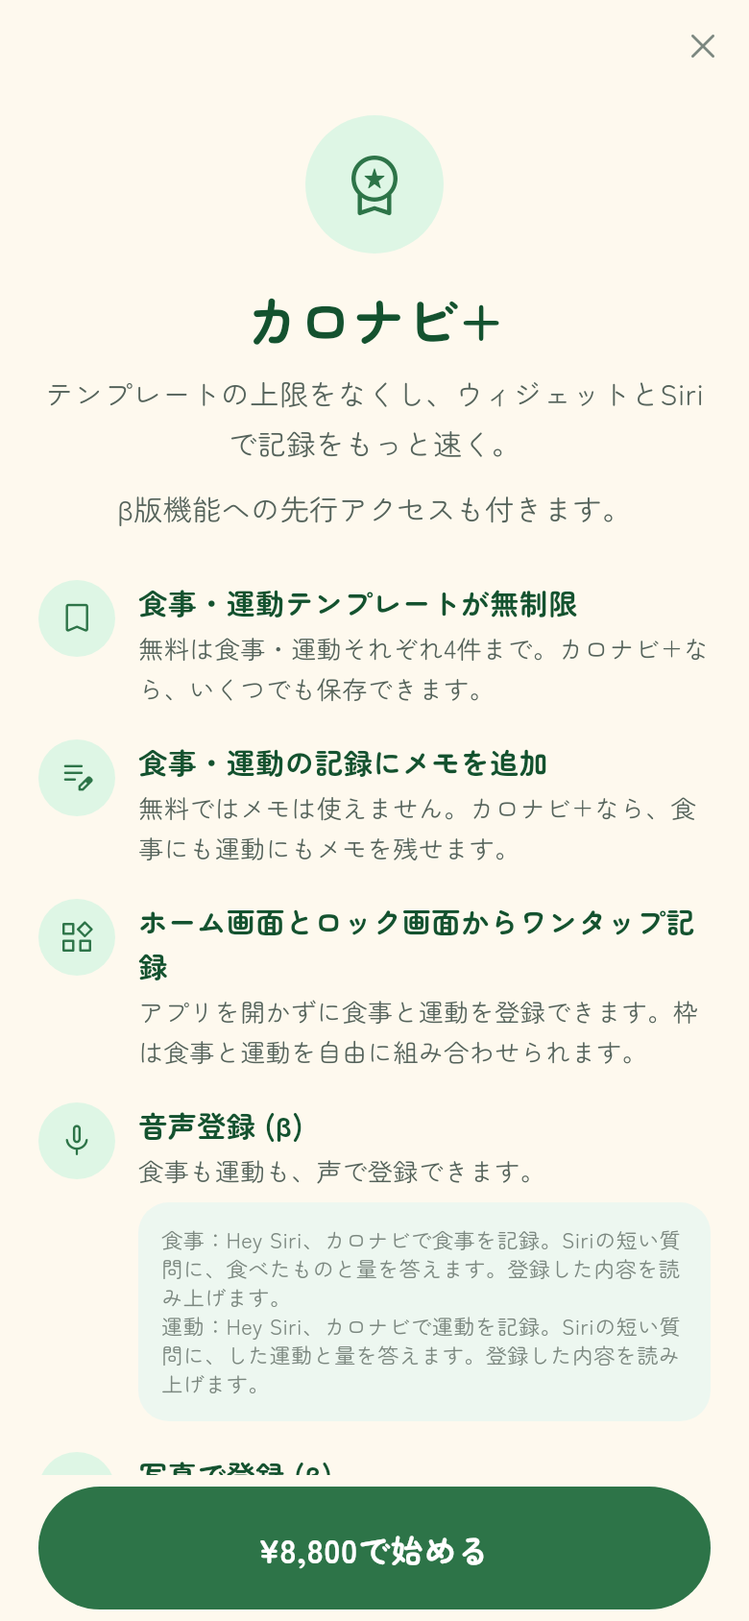
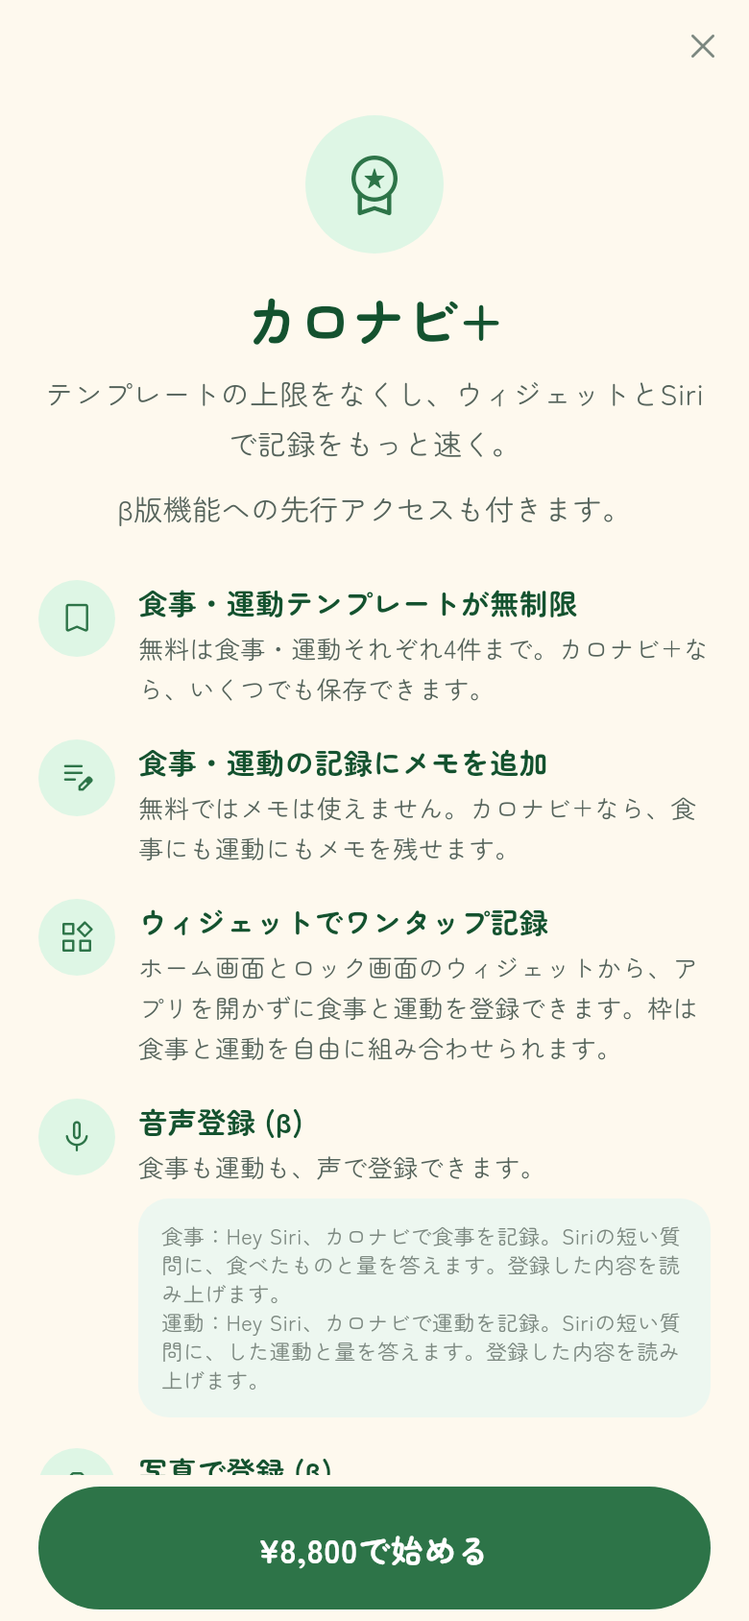
カロナビ+の機能説明にウィジェットとAIの2機能をそろえる
ウィジェットはタイトルにその語を入れ、ホーム画面とロック画面から登録すると書く。写真で登録とAIで探すはβのまま同じ文字サイズで、推定だと分かる文にする。

diff --git a/lib/screens/settings/how_to_use_screen.dart b/lib/screens/settings/how_to_use_screen.dart
@@ -50,13 +50,13 @@ class HowToUseScreen extends StatelessWidget {
                 const _Section(
                   title: 'ウィジェットと、音声登録 (β)',
                   body:
-                      'ホームの大きなウィジェットは、残りカロリーに加え、アプリを開かずに食事と運動を登録します。枠は食事と運動を自由に組み合わせられます。ロック画面の3枠は、ホームの1〜3枠目を種類も含めてそのまま使います。枠の中身は、保存した食事・運動テンプレートを選んで食品や種目ごとに量を変えて入れるか、その場で作ります。枠に入れても元のテンプレートは変わらず、テンプレートの件数にも入りません。アプリの中で保存しただけでは、ホーム画面やロック画面に自動では付きません。ホーム画面は、いちばん左のページを長押しし、左上「編集」から「ウィジェットを追加」でカロナビを選びます。ロック画面は、長押しして「カスタマイズ」→「ロック画面」と進み、時刻の上下の枠をタップしてカロナビを選び、「完了」を押します。音声のショートカットは、自分で追加しません。使う前に、設定アプリの「Siriと検索」（または「Apple IntelligenceとSiri」）でSiriをオンにし、カロナビにログインしておきます。「Hey Siri、カロナビに登録」または「Hey Siri、カロナビ登録」と話し、Siriの短い質問に答えます。食事は「Hey Siri、カロナビで食事を記録」、運動は「Hey Siri、カロナビで運動を記録」です。質問には「ささみ100g」のように量まで答えられます。一覧にある食品は「Hey Siri、カロナビで食事にささみ」、運動は「Hey Siri、カロナビで運動にウォーキング」です。この言い方では量は続く質問に答えます。一覧に無いものは「カロナビで食事を記録」から話します。登録した内容を読み上げます。直前の1件は「Hey Siri、カロナビで今登録したやつ消して」で消せます。候補が分かれるときだけ、登録の前に確認します。牛ももの焼き200gのように詳しく答えると、その場で登録できます。牛肉のように種類が分かれると、部位を聞くことがあります。食事か運動か決まらないときは、どちらに登録するかを確認します。食品成分表と、ブロックしていない人の公開食品もSiriから登録できます。保存した食品とテンプレート名は、アプリを開いたあと「カロナビで食事に」のあとに言えます。',
+                      'ウィジェットでワンタップ記録は、ホーム画面とロック画面のウィジェットです。ホーム画面の大きなウィジェットは、残りカロリーに加え、アプリを開かずに食事と運動を登録します。枠は食事と運動を自由に組み合わせられます。ロック画面の3枠は、ホームの1〜3枠目を種類も含めてそのまま使います。枠の中身は、保存した食事・運動テンプレートを選んで食品や種目ごとに量を変えて入れるか、その場で作ります。枠に入れても元のテンプレートは変わらず、テンプレートの件数にも入りません。アプリの中で保存しただけでは、ホーム画面やロック画面に自動では付きません。ホーム画面は、いちばん左のページを長押しし、左上「編集」から「ウィジェットを追加」でカロナビを選びます。ロック画面は、長押しして「カスタマイズ」→「ロック画面」と進み、時刻の上下の枠をタップしてカロナビを選び、「完了」を押します。音声のショートカットは、自分で追加しません。使う前に、設定アプリの「Siriと検索」（または「Apple IntelligenceとSiri」）でSiriをオンにし、カロナビにログインしておきます。「Hey Siri、カロナビに登録」または「Hey Siri、カロナビ登録」と話し、Siriの短い質問に答えます。食事は「Hey Siri、カロナビで食事を記録」、運動は「Hey Siri、カロナビで運動を記録」です。質問には「ささみ100g」のように量まで答えられます。一覧にある食品は「Hey Siri、カロナビで食事にささみ」、運動は「Hey Siri、カロナビで運動にウォーキング」です。この言い方では量は続く質問に答えます。一覧に無いものは「カロナビで食事を記録」から話します。登録した内容を読み上げます。直前の1件は「Hey Siri、カロナビで今登録したやつ消して」で消せます。候補が分かれるときだけ、登録の前に確認します。牛ももの焼き200gのように詳しく答えると、その場で登録できます。牛肉のように種類が分かれると、部位を聞くことがあります。食事か運動か決まらないときは、どちらに登録するかを確認します。食品成分表と、ブロックしていない人の公開食品もSiriから登録できます。保存した食品とテンプレート名は、アプリを開いたあと「カロナビで食事に」のあとに言えます。',
                 ),
                 const SizedBox(height: AppSpacing.md),
                 const _Section(
                   title: '無料とカロナビ+',
                   body:
-                      '無料でも、食事・運動・体重の記録、記録の共有、食事テンプレート4件、運動テンプレート4件が使えます。カロナビ+では食事と運動のテンプレートの件数制限がなくなり、食事のメモ、直近3日の食品、ウィジェット、音声登録 (β)、パーソナルコーチ (β)、写真で登録 (β) が使えます。ウィジェットとSiriで、記録を速くできます。あわせて、β版機能への先行アクセスが付きます。ウィジェットの置き方と音声の始め方は、上の節と各画面に書いてあります。',
+                      '無料でも、食事・運動・体重の記録、記録の共有、食事テンプレート4件、運動テンプレート4件が使えます。カロナビ+では食事と運動のテンプレートの件数制限がなくなり、食事のメモ、直近3日の食品、ウィジェットでワンタップ記録、音声登録 (β)、パーソナルコーチ (β)、写真で登録 (β)、AIで探す (β) が使えます。ウィジェットとSiriで、記録を速くできます。あわせて、β版機能への先行アクセスが付きます。ウィジェットの置き方と音声の始め方は、上の節と各画面に書いてあります。',
                 ),
                 const SizedBox(height: AppSpacing.md),
                 const _Section(
@@ -102,7 +102,7 @@ class HowToUseScreen extends StatelessWidget {
                 const _Section(
                   title: '食品の探し方',
                   body:
-                      '食事の追加では、手入力、バーコード、食品を探す、テンプレート、写真で登録から記録できます。保存済み食品や定番の食品、公開食品は「食品を探す」から選べます。公開食品は、ほかの人が公開した食品で、氏名やメールは載りません。公開した食品は、アカウントを削除しても残ります。写真で登録 (β) はカロナビ+です。写真を撮るか、カメラロールから選びます。料理名は任意です。入れると精度が上がります。量も任意で、グラム・個数・杯数など、できるだけ正確に入れると精度が上がります。補足も任意で、油の量や脂身、ソースなど写真で分かりにくい特徴を書けます。カロリーとPFCはAIの推定です。登録の前に確認して、数値を直せます。料理名を入れなかったときは、登録のときに名前を確認します。写真はカロナビに保存しません。',
+                      '食事の追加では、手入力、バーコード、食品を探す、テンプレート、写真で登録から記録できます。保存済み食品や定番の食品、公開食品は「食品を探す」から選べます。公開食品は、ほかの人が公開した食品で、氏名やメールは載りません。公開した食品は、アカウントを削除しても残ります。写真で登録 (β) はカロナビ+です。写真を撮るか、カメラロールから選びます。料理名は任意です。入れると精度が上がります。量も任意で、グラム・個数・杯数など、できるだけ正確に入れると精度が上がります。補足も任意で、油の量や脂身、ソースなど写真で分かりにくい特徴を書けます。カロリーとPFCはAIの推定です。登録の前に確認して、数値を直せます。料理名を入れなかったときは、登録のときに名前を確認します。写真はカロナビに保存しません。AIで探す (β) もカロナビ+です。検索で見つからない食品は、チェーン店のメニューなども含めて、AIがカロリーとPFCの推定を出します。推定だと表示します。',
                 ),
                 const SizedBox(height: AppSpacing.md),
                 const _Section(

diff --git a/lib/constants/app_strings.dart b/lib/constants/app_strings.dart
@@ -81,7 +81,7 @@ class AppStrings {
   static const plusBetaAccessLead = 'β版機能への先行アクセスも付きます。';
   static const plusBetaAccessTitle = 'β版機能への先行アクセス';
   static const plusBetaAccessBody =
-      'パーソナルコーチ (β)、音声登録 (β)、写真で登録 (β) など、β版として先行公開している機能を使えます。';
+      'パーソナルコーチ (β)、音声登録 (β)、写真で登録 (β)、AIで探す (β) など、β版として先行公開している機能を使えます。';
   static const coachBetaNotice =
       '残りカロリーを時間帯に合わせて今日これからの食事と間食に分け、食事ごとに主食・主菜・副菜の組み合わせと量を提案します。食べすぎた日は運動を提案します。';
   static const coachFeatureBody =
@@ -91,14 +91,17 @@ class AppStrings {
       '無料は食事・運動それぞれ4件まで。カロナビ+なら、いくつでも保存できます。';
   static const plusBenefitNoteTitle = '食事・運動の記録にメモを追加';
   static const plusBenefitNoteBody = '無料ではメモは使えません。カロナビ+なら、食事にも運動にもメモを残せます。';
-  static const plusBenefitWidgetTitle = 'ホーム画面とロック画面からワンタップ記録';
+  static const plusBenefitWidgetTitle = 'ウィジェットでワンタップ記録';
   static const plusBenefitWidgetBody =
-      'アプリを開かずに食事と運動を登録できます。枠は食事と運動を自由に組み合わせられます。';
+      'ホーム画面とロック画面のウィジェットから、アプリを開かずに食事と運動を登録できます。枠は食事と運動を自由に組み合わせられます。';
   static const plusBenefitSiriTitle = '音声登録 (β)';
   static const plusBenefitSiriBody = '食事も運動も、声で登録できます。';
   static const plusBenefitPhotoTitle = '写真で登録 (β)';
   static const plusBenefitPhotoBody =
-      '食事の写真から、カロリーとPFCの推定を出します。登録の前に確認して、数値を直せます。';
+      '食事の写真から、AIがカロリーとPFCの推定を出します。料理名、量、補足は任意で、入れると精度が上がります。登録の前に確認して、数値を直せます。';
+  static const plusBenefitAiSearchTitle = 'AIで探す (β)';
+  static const plusBenefitAiSearchBody =
+      '検索で見つからない食品も、チェーン店のメニューなどから、AIがカロリーとPFCの推定を出します。推定だと表示します。';
   static const plusCtaPrefix = 'で始める';
   static const plusBadgeBestValue = '一番お得';
   static const plusBadgeSave = 'お得';

diff --git a/test/plus_price_screenshot_test.dart b/test/plus_price_screenshot_test.dart
@@ -86,6 +86,18 @@ void main() {
     );
     expect(find.text('¥8,800で始める'), findsOneWidget);
 
+    await _captureFull(
+      tester,
+      UnavailableSubscriptionRepository(),
+      File('${directory.path}/paywall_full.png'),
+    );
+    expect(find.text('ウィジェットでワンタップ記録'), findsOneWidget);
+    expect(find.text('写真で登録 (β)'), findsOneWidget);
+    expect(find.text('AIで探す (β)'), findsOneWidget);
+    expect(find.text('ホーム画面とロック画面のウィジェットから、アプリを開かずに食事と運動を登録できます。枠は食事と運動を自由に組み合わせられます。'), findsOneWidget);
+    expect(find.textContaining('精度検証中'), findsNothing);
+    expect(find.text('プランを選ぶ'), findsOneWidget);
+
     await tester.binding.setSurfaceSize(const Size(390, 844));
     final key = GlobalKey();
     await tester.pumpWidget(
@@ -113,14 +125,44 @@ void main() {
   });
 }
 
+Future<void> _captureFull(
+  WidgetTester tester,
+  UnavailableSubscriptionRepository repository,
+  File file,
+) async {
+  final key = GlobalKey();
+  await tester.binding.setSurfaceSize(const Size(390, 844));
+  await tester.pumpWidget(
+    MaterialApp(
+      debugShowCheckedModeBanner: false,
+      theme: AppTheme.light,
+      home: RepaintBoundary(
+        key: key,
+        child: CalonaviPlusEntryScreen(repository: repository),
+      ),
+    ),
+  );
+  await tester.pumpAndSettle();
+  final position = tester.state<ScrollableState>(find.byType(Scrollable).first).position;
+  final height = 844 + position.maxScrollExtent;
+  await tester.binding.setSurfaceSize(Size(390, height));
+  await tester.pumpAndSettle();
+  final bytes = await tester.runAsync(
+    () => pngBytesFromBoundary(key, pixelRatio: 2),
+  );
+  expect(bytes, isNotNull);
+  file.writeAsBytesSync(bytes!);
+}
+
 Future<void> _capture(
   WidgetTester tester,
   UnavailableSubscriptionRepository repository,
   File file, {
   required bool scrollToPlans,
+  Size surface = const Size(390, 844),
 }) async {
   final key = GlobalKey();
-  await tester.binding.setSurfaceSize(const Size(390, 844));
+  await tester.binding.setSurfaceSize(surface);
   await tester.pumpWidget(
     MaterialApp(
       debugShowCheckedModeBanner: false,

diff --git a/test/calonavi_plus_terms_test.dart b/test/calonavi_plus_terms_test.dart
@@ -5,6 +5,7 @@ import 'package:ayg/screens/subscription/calonavi_plus_flow.dart';
 import 'package:ayg/services/subscription_entitlement.dart';
 import 'package:ayg/services/subscription_offer.dart';
 import 'package:ayg/theme/app_theme.dart';
+import 'package:ayg/theme/app_typography.dart';
 import 'package:ayg/widgets/design/design_button.dart';
 import 'package:flutter/material.dart';
 import 'package:flutter_test/flutter_test.dart';
@@ -56,7 +57,23 @@ void main() {
     expect(AppStrings.plusAutoRenew, contains('24時間以内'));
     expect(AppStrings.plusCancelHow, contains('App Store'));
     expect(AppStrings.plusBenefitSiriTitle, '音声登録 (β)');
+    expect(AppStrings.plusBenefitWidgetTitle, 'ウィジェットでワンタップ記録');
+    expect(AppStrings.plusBenefitWidgetBody, contains('ホーム画面とロック画面のウィジェット'));
+    expect(AppStrings.plusBenefitPhotoTitle, '写真で登録 (β)');
+    expect(AppStrings.plusBenefitAiSearchTitle, 'AIで探す (β)');
+    expect(AppStrings.plusBenefitAiSearchBody, contains('チェーン店'));
+    expect(AppStrings.plusBenefitAiSearchBody, contains('推定だと表示します'));
     expect(AppStrings.plusBetaAccessBody, contains('音声登録 (β)'));
+    expect(AppStrings.plusBetaAccessBody, contains('AIで探す (β)'));
+    expect(find.textContaining('精度検証中'), findsNothing);
+    final photoTitle = tester.widget<Text>(
+      find.text(AppStrings.plusBenefitPhotoTitle),
+    );
+    final aiTitle = tester.widget<Text>(
+      find.text(AppStrings.plusBenefitAiSearchTitle),
+    );
+    expect(photoTitle.style?.fontSize, AppTypography.titleS.fontSize);
+    expect(aiTitle.style?.fontSize, AppTypography.titleS.fontSize);
     expect(find.textContaining('現在の有効期限'), findsNothing);
     expect(find.textContaining('380'), findsNothing);
   });

diff --git a/lib/screens/settings/lock_screen_meal_screen.dart b/lib/screens/settings/lock_screen_meal_screen.dart
@@ -361,7 +361,7 @@ class _LockScreenMealScreenState extends State<LockScreenMealScreen> {
                 const DesignTitleBlock(
                   title: 'ウィジェット',
                   subtitle:
-                      'ホーム画面の大きなウィジェットは、残りカロリーに加え、アプリを開かずに食事と運動を登録します。枠は食事と運動を自由に組み合わせられます。ロック画面の3枠は、ホームの1〜3枠目を種類も含めてそのまま使います。枠の中身は、保存した食事・運動テンプレートを選んで食品や種目ごとに量を変えて入れるか、その場で作ります。枠に入れても元のテンプレートは変わらず、テンプレートの件数にも入りません。',
+                      'ウィジェットでワンタップ記録です。ホーム画面の大きなウィジェットは、残りカロリーに加え、アプリを開かずに食事と運動を登録します。枠は食事と運動を自由に組み合わせられます。ロック画面の3枠は、ホームの1〜3枠目を種類も含めてそのまま使います。枠の中身は、保存した食事・運動テンプレートを選んで食品や種目ごとに量を変えて入れるか、その場で作ります。枠に入れても元のテンプレートは変わらず、テンプレートの件数にも入りません。',
                 ),
                 DesignCard(
                   child: Column(

diff --git a/test/lock_screen_meal_test.dart b/test/lock_screen_meal_test.dart
@@ -361,10 +361,10 @@ void main() {
       ),
     );
     expect(find.text('ウィジェット'), findsOneWidget);
-    expect(find.text('アプリを開かず食事・運動を登録'), findsOneWidget);
+    expect(find.text('ホーム画面とロック画面から登録'), findsOneWidget);
     expect(
       tester
-          .renderObject<RenderParagraph>(find.text('アプリを開かず食事・運動を登録'))
+          .renderObject<RenderParagraph>(find.text('ホーム画面とロック画面から登録'))
           .didExceedMaxLines,
       isFalse,
     );
@@ -554,7 +554,7 @@ void main() {
     expect(find.text('こちらは有料の機能です'), findsOneWidget);
     expect(
       find.text(
-        'ウィジェットは、残りカロリーに加え、アプリを開かずに食事と運動を登録します。枠は食事と運動を自由に組み合わせられます。カロナビ+です。',
+        'ホーム画面とロック画面のウィジェットから、アプリを開かずに食事と運動を登録します。枠は食事と運動を自由に組み合わせられます。カロナビ+です。',
       ),
       findsOneWidget,
     );

diff --git a/lib/screens/settings/settings_screen.dart b/lib/screens/settings/settings_screen.dart
@@ -92,7 +92,7 @@ class SettingsScreen extends StatelessWidget {
         context: context,
         title: 'こちらは有料の機能です',
         message:
-            'ウィジェットは、残りカロリーに加え、アプリを開かずに食事と運動を登録します。枠は食事と運動を自由に組み合わせられます。カロナビ+です。',
+            'ホーム画面とロック画面のウィジェットから、アプリを開かずに食事と運動を登録します。枠は食事と運動を自由に組み合わせられます。カロナビ+です。',
         confirmLabel: 'カロナビ+を見る',
         cancelLabel: '閉じる',
       );
@@ -274,7 +274,7 @@ class SettingsScreen extends StatelessWidget {
             SettingsRow(
               icon: AppIcons.template,
               title: 'ウィジェット',
-              subtitle: 'アプリを開かず食事・運動を登録',
+              subtitle: 'ホーム画面とロック画面から登録',
               onTap: () => _openMealWidget(context),
             ),
             const SizedBox(height: _rowGap),

diff --git a/lib/screens/food/photo_meal_screen.dart b/lib/screens/food/photo_meal_screen.dart
@@ -195,7 +195,7 @@ class _PhotoMealScreenState extends State<PhotoMealScreen> {
           const DesignTitleBlock(
             title: '写真で登録 (β)',
             subtitle:
-                '食事の写真から、カロリーとPFCを推定します。これはAIの推定です。登録の前に確認して、数値を直せます。\n写真は栄養の推定に使い、カロナビには保存しません。',
+                '食事の写真から、AIがカロリーとPFCを推定します。料理名、量、補足は任意で、入れると精度が上がります。登録の前に確認して、数値を直せます。\n写真は栄養の推定に使い、カロナビには保存しません。',
           ),
           if (jpeg != null)
             ClipRRect(

diff --git a/docs/index.html b/docs/index.html
@@ -276,7 +276,7 @@
             </article>
             <article class="card">
               <h3>カロナビ+（任意）</h3>
-              <p>食事テンプレートと運動テンプレートは、何件でも保存できます。</p>
+              <p>食事テンプレートと運動テンプレートは、何件でも保存できます。ウィジェットでワンタップ記録、写真で登録 (β)、AIで探す (β) も使えます。</p>
             </article>
           </div>
           <p class="plan-price">月額980円、半年4,900円（月あたり約817円。1か月分お得）、年額8,800円（月あたり約733円。月額より約25%お得）。</p>

diff --git a/lib/screens/food/food_form_screen.dart b/lib/screens/food/food_form_screen.dart
@@ -827,7 +827,8 @@ class _FoodFormScreenState extends State<FoodFormScreen> {
     final allowed = await ensureCalonaviPlus(
       context,
       widget.controller,
-      message: '写真で登録 (β) は、カロナビ+です。食事の写真から、カロリーとPFCの推定を出します。',
+      message:
+          '写真で登録 (β) は、カロナビ+です。食事の写真から、AIがカロリーとPFCの推定を出します。登録の前に確認して、数値を直せます。',
       feature: PlusFunnelFeature.photoMeal,
     );
     if (!allowed || !mounted) {

diff --git a/lib/screens/subscription/calonavi_plus_flow.dart b/lib/screens/subscription/calonavi_plus_flow.dart
@@ -508,6 +508,12 @@ class _CalonaviPlusEntryScreenState extends State<CalonaviPlusEntryScreen> {
           ),
           const SizedBox(height: AppSpacing.md),
           _Benefit(
+            icon: Symbols.search_rounded,
+            title: AppStrings.plusBenefitAiSearchTitle,
+            body: AppStrings.plusBenefitAiSearchBody,
+          ),
+          const SizedBox(height: AppSpacing.md),
+          _Benefit(
             icon: Symbols.eco_rounded,
             title: AppStrings.plusBetaAccessTitle,
             body: AppStrings.plusBetaAccessBody,

diff --git a/test/photo_meal_screenshot_test.dart b/test/photo_meal_screenshot_test.dart
@@ -92,7 +92,7 @@ void main() {
       scrollTo: find.text('補足'),
     );
     expect(
-      find.textContaining('これはAIの推定です。登録の前に確認して、数値を直せます。'),
+      find.textContaining('AIがカロリーとPFCを推定します。料理名、量、補足は任意で、入れると精度が上がります。'),
       findsOneWidget,
     );
     expect(find.text('任意です。入れると精度が上がります。'), findsOneWidget);
